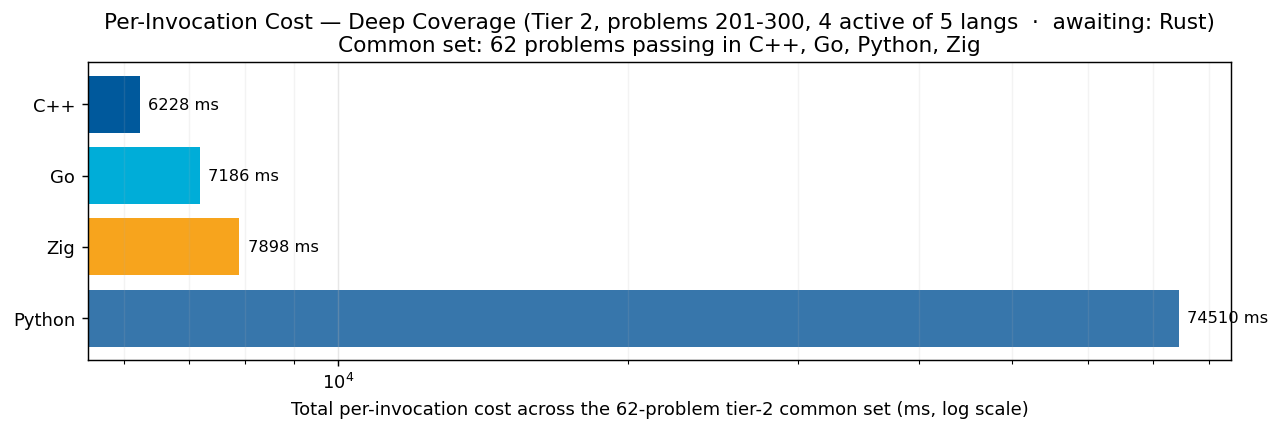
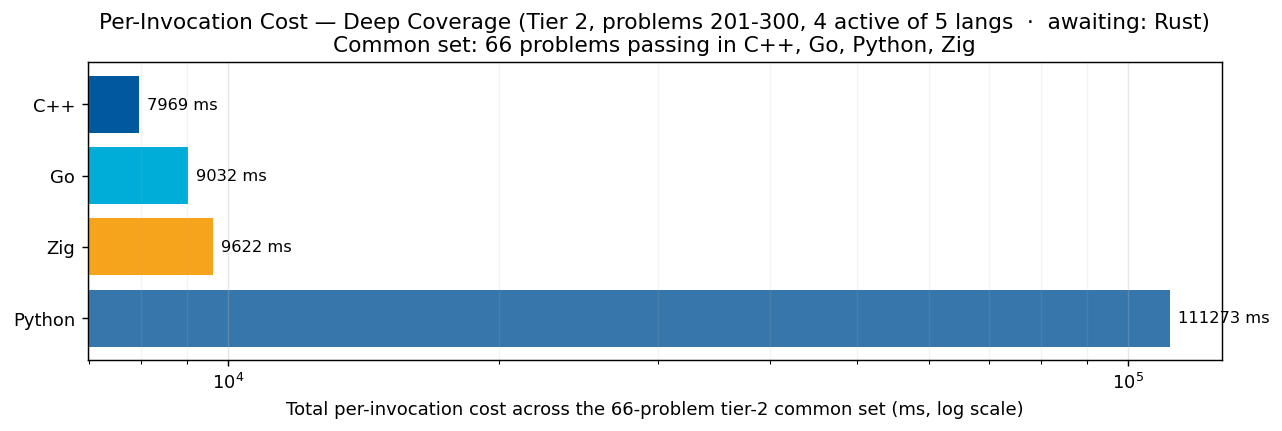
publish: +16 python tier-2 cells (Go-<1s subset, 4 bundles of 4); python active threshold cleared (~66/96 = 69%)

diff --git a/RESULTS.md b/RESULTS.md
@@ -1,6 +1,6 @@
 # Project Euler — Cross-Language Benchmarks
 
-> **Scope: 2500 in-scope cells across 300 problems × tiered languages — 2344 measured (93.8% coverage).**
+> **Scope: 2500 in-scope cells across 300 problems × tiered languages — 2348 measured (93.9% coverage).**
 > The cross-language ranking below is computed over the **199-problem common set** (problems in 1-200 where every language has a passing measurement) — the apples-to-apples Foundation comparison surface.  Per-tier rankings and coverage detail appear further below.
 > Growing carefully — each new problem and language is audited for state-leak
 > safety, verified for answer correctness, and added only when it cleanly fits the
@@ -46,18 +46,18 @@ How much code does each language need to solve these 200 Foundation problems, an
 
 Same per-invocation metric, restricted to the deeper subset of languages (C++, Go, Python, Rust, Zig) that intentionally pushed past problem 200. The other 5 Foundation languages are out of tier scope here — they're capped at 200 by the project's language-cap policy (see JOURNEY.md).
 
-### Per-Invocation Cost (Common Set, 62 of 100 problems)
+### Per-Invocation Cost (Common Set, 66 of 100 problems)
 
 _Common set computed over the **4 active** tier-2 langs_ _(C++, Go, Python, Zig);_ _awaiting: Rust (below 50% coverage threshold). Common set will tighten once awaited langs reach majority coverage in tier 2._
 
 ![Per-Invocation Cost — Tier 2](charts/per_iter_total_tier2.png)
 
-| Rank | Language | Total (62-problem common set) | Lines of code | vs Fastest |
+| Rank | Language | Total (66-problem common set) | Lines of code | vs Fastest |
 |------|----------|--------------------:|--------------:|-----------:|
-| 1 | **C++** | 6.23 s | 8,288 | 1.00× |
-| 2 | **Go** | 7.19 s | 5,884 | 1.15× |
-| 3 | **Zig** | 7.90 s | 6,373 | 1.27× |
-| 4 | **Python** | 74.51 s | 4,067 | 11.96× |
+| 1 | **C++** | 7.97 s | 8,832 | 1.00× |
+| 2 | **Go** | 9.03 s | 6,485 | 1.13× |
+| 3 | **Zig** | 9.62 s | 7,005 | 1.21× |
+| 4 | **Python** | 111.27 s | 4,430 | 13.96× |
 
 ### Speed vs Code Size
 
